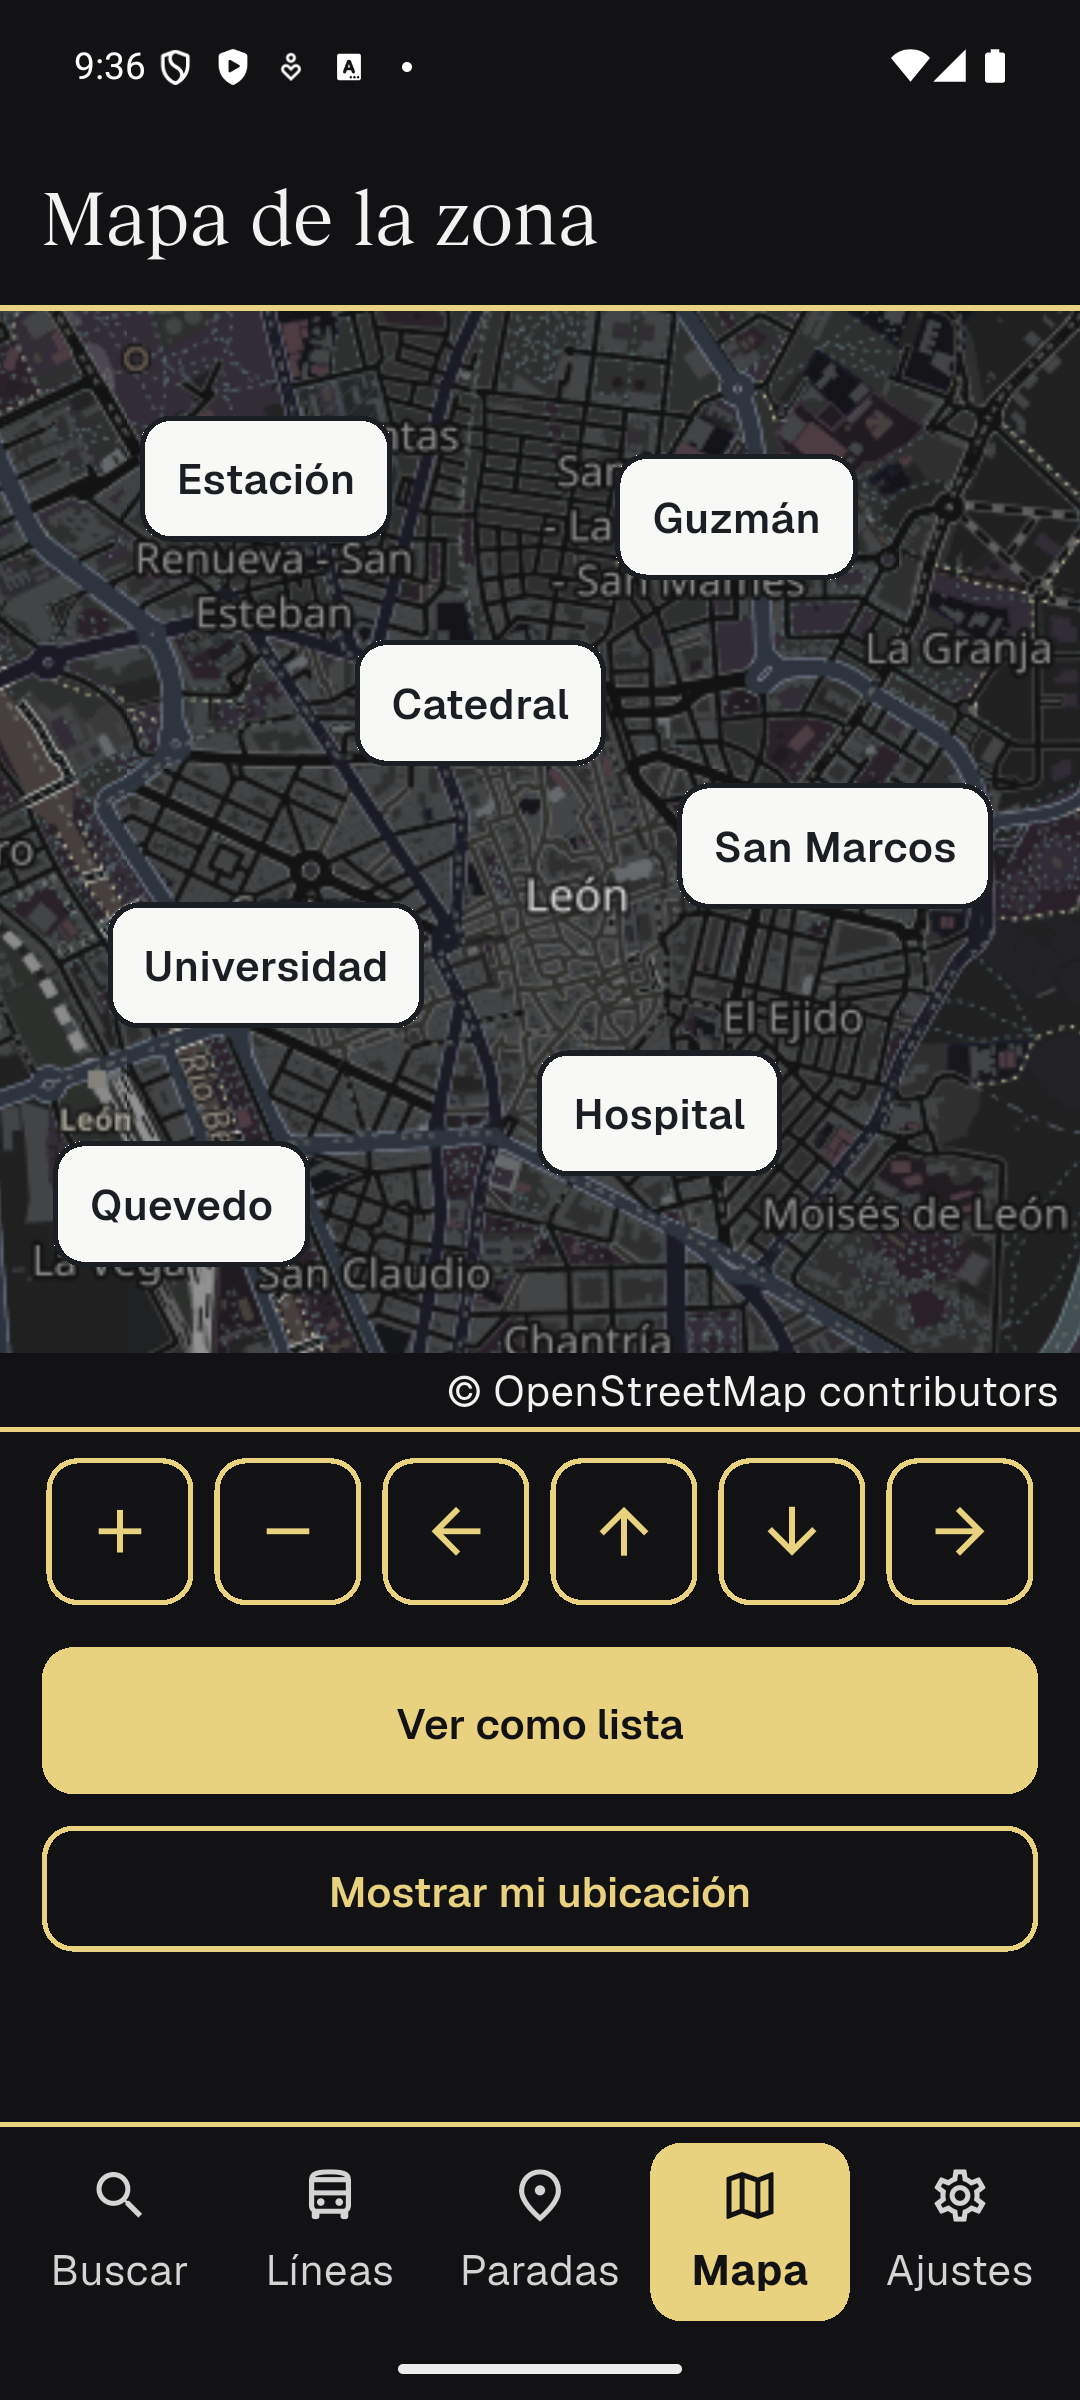
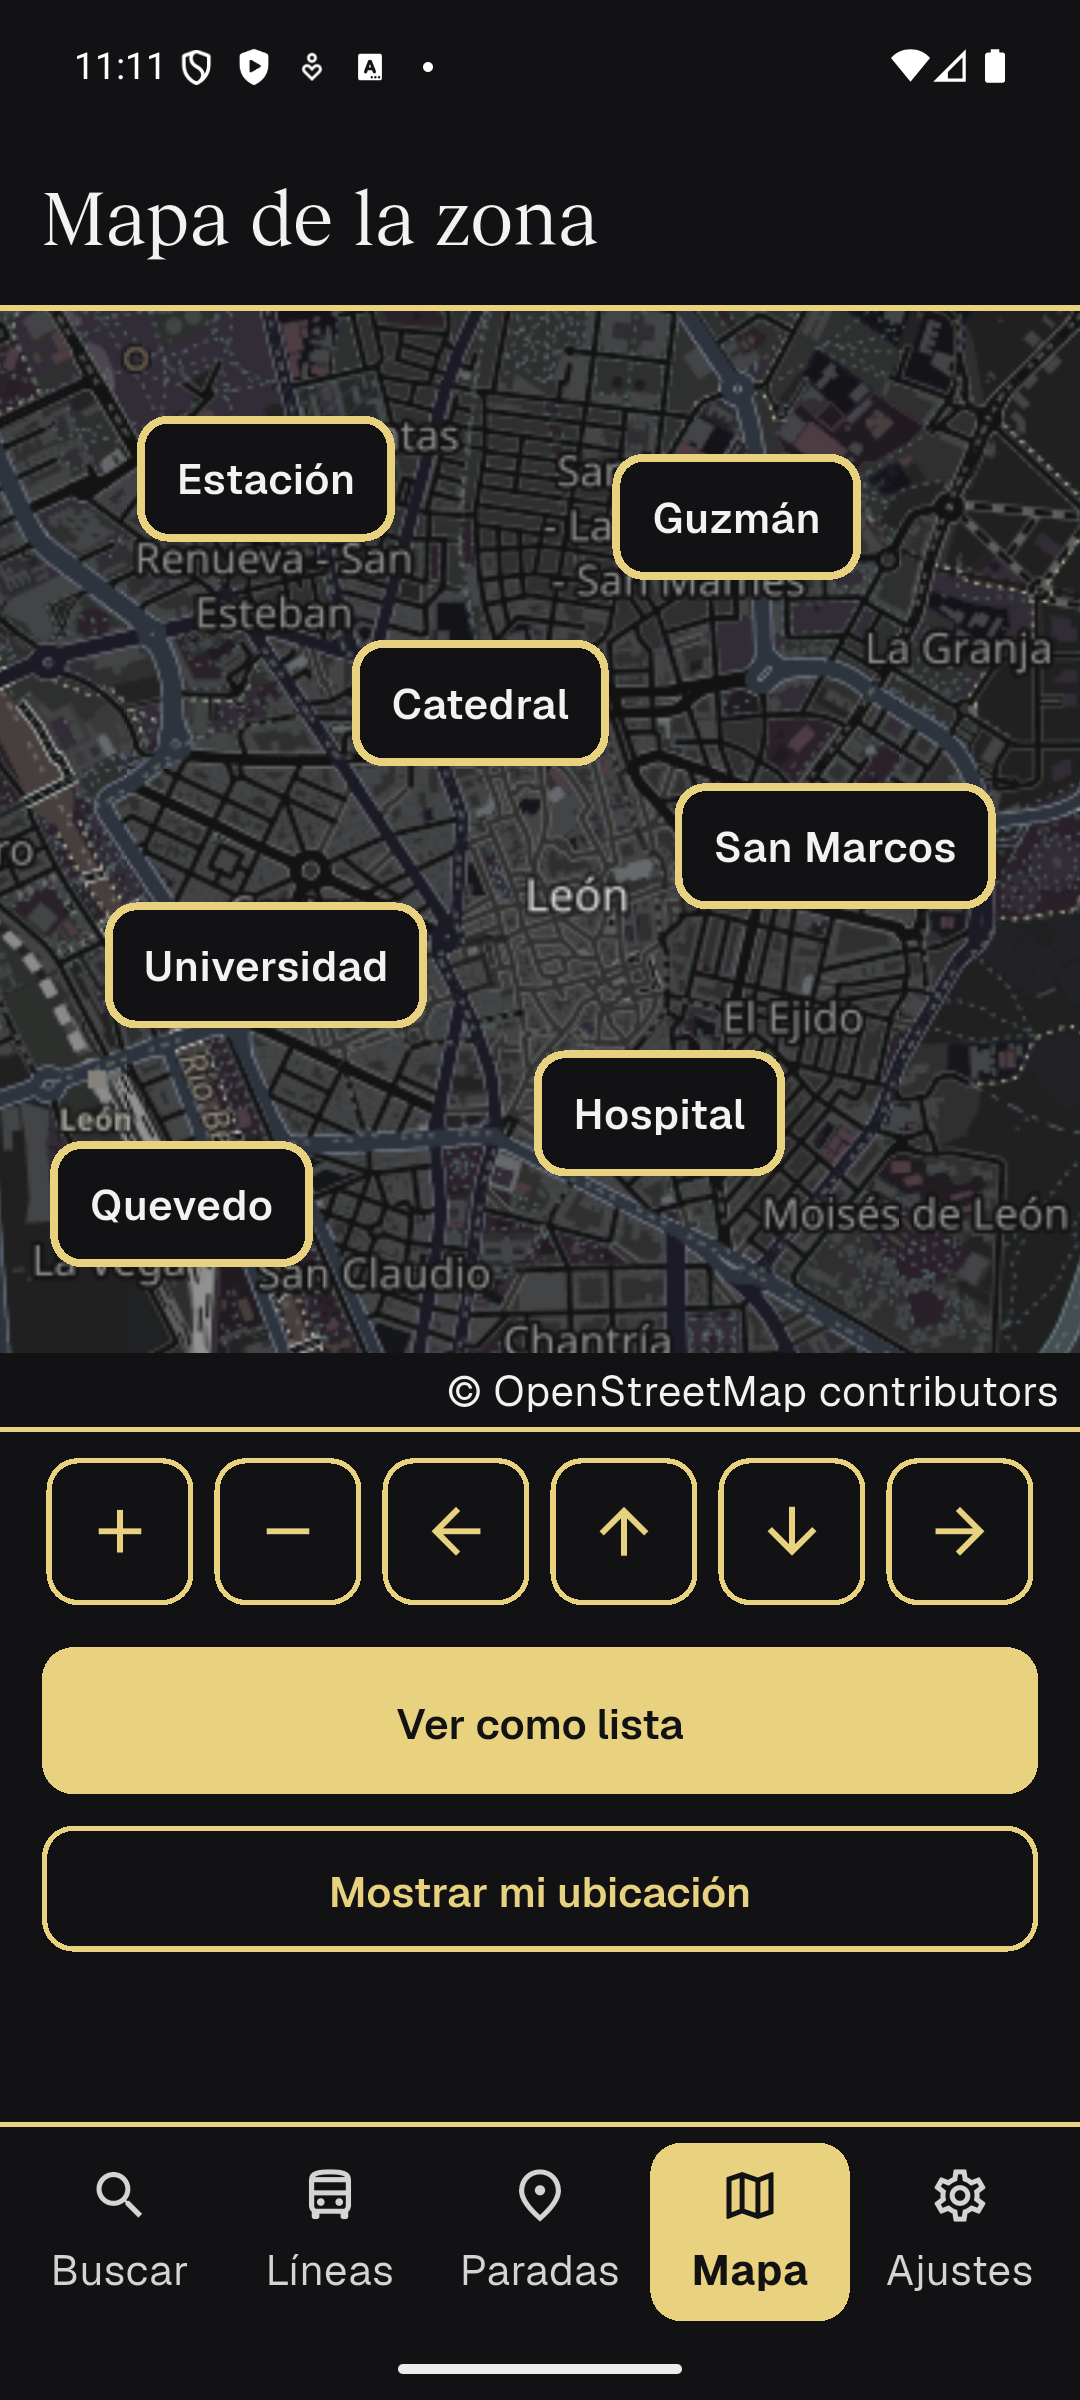
Capturas del mapa en alto contraste (100 % y 200 %) y README con los ratios medidos

diff --git a/README.md b/README.md
@@ -72,8 +72,13 @@ la red: usa `PantallaMapa.conexionParaPruebas`.
   y registro (según su repositorio oficial basemap-styles, consultado en noviembre de 2026); así se mantienen el mismo
   proveedor, la misma atribución y el mismo comportamiento sin conexión; y no añade
   dependencias. Contraste aproximado medido sobre las capturas:
-  - alto contraste: el pin claro sobre el mapa oscuro, entre 6,8:1 (zonas más claras
-    del mapa, percentil 95) y 17:1;
+  - alto contraste: los pines usan los colores del tema de alto contraste (fondo
+    `#121214`, texto `#F2F2F2`, borde de acento `#E8D27F` de 3 dp). El texto, sobre el
+    fondo opaco del pin, da 16,7:1. El borde de acento sobre el mapa da 4,96:1 en el
+    95 % de los píxeles del mapa; solo baja de 3:1 en el 1 % más claro (rótulos
+    invertidos), y ahí el fondo oscuro del pin contrasta ≥ 4,4:1. Para cualquier
+    píxel del mapa, el borde o el fondo del pin contrastan al menos 3,5:1, así que el
+    contorno siempre se distingue;
   - tema normal: el borde oscuro del pin sobre el mapa, ≥ 8:1.
 
   La atribución de OSM va en una franja propia bajo el mapa, así que no tapa pines.
@@ -81,7 +86,7 @@ la red: usa `PantallaMapa.conexionParaPruebas`.
 ## Scripts (`docs/scripts/`)
 
 - `python docs/scripts/contrastes.py`: sin dependencias. Lee los hex de `tema.dart`,
-  calcula el contraste WCAG 2.2 de 22 pares de uso (16 del tema normal y 6 del de alto
+  calcula el contraste WCAG 2.2 de 27 pares de uso (18 del tema normal y 9 del de alto
   contraste) y escribe `docs/contrastes_app.csv`. Avisa si algún hex no coincide con la
   especificación o si algún par da FAIL; en ese caso termina con código 1.
 - `python docs/scripts/simular.py`: necesita `pip install pillow numpy`. A partir de
